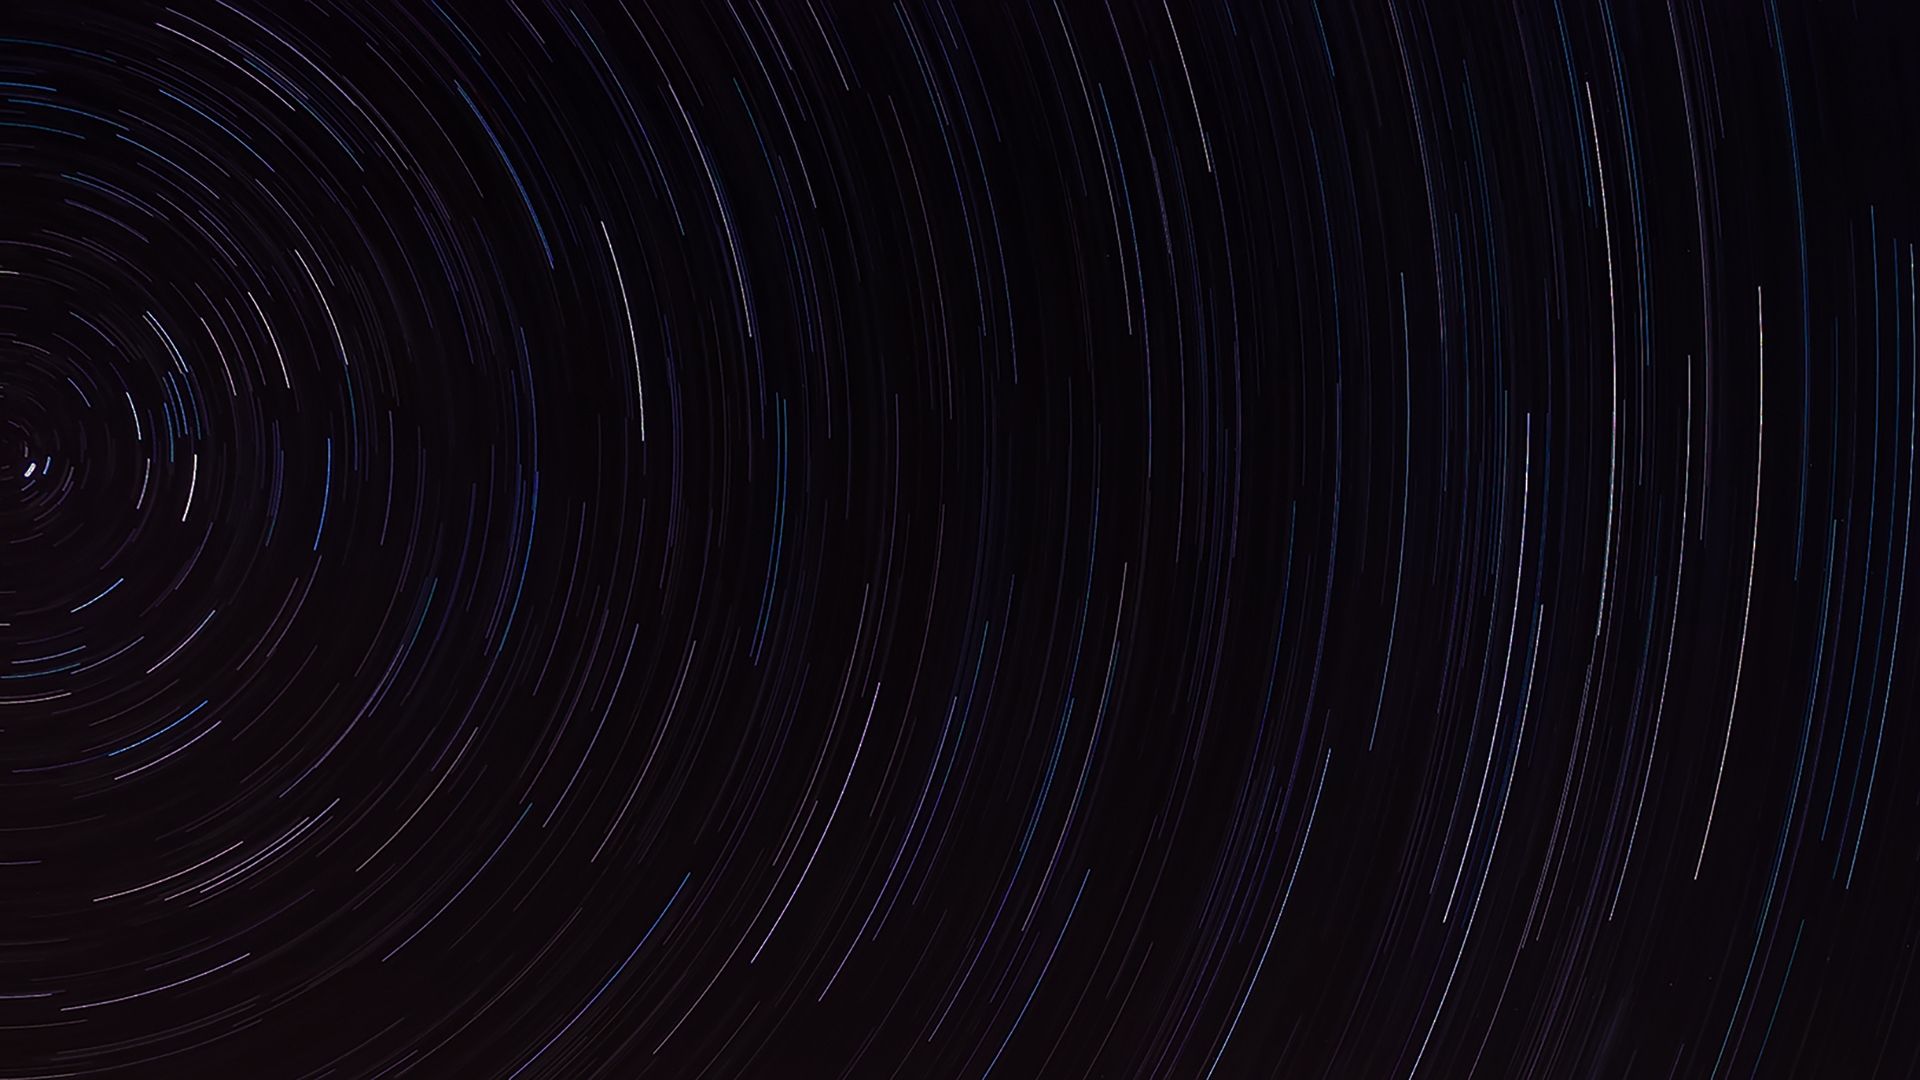
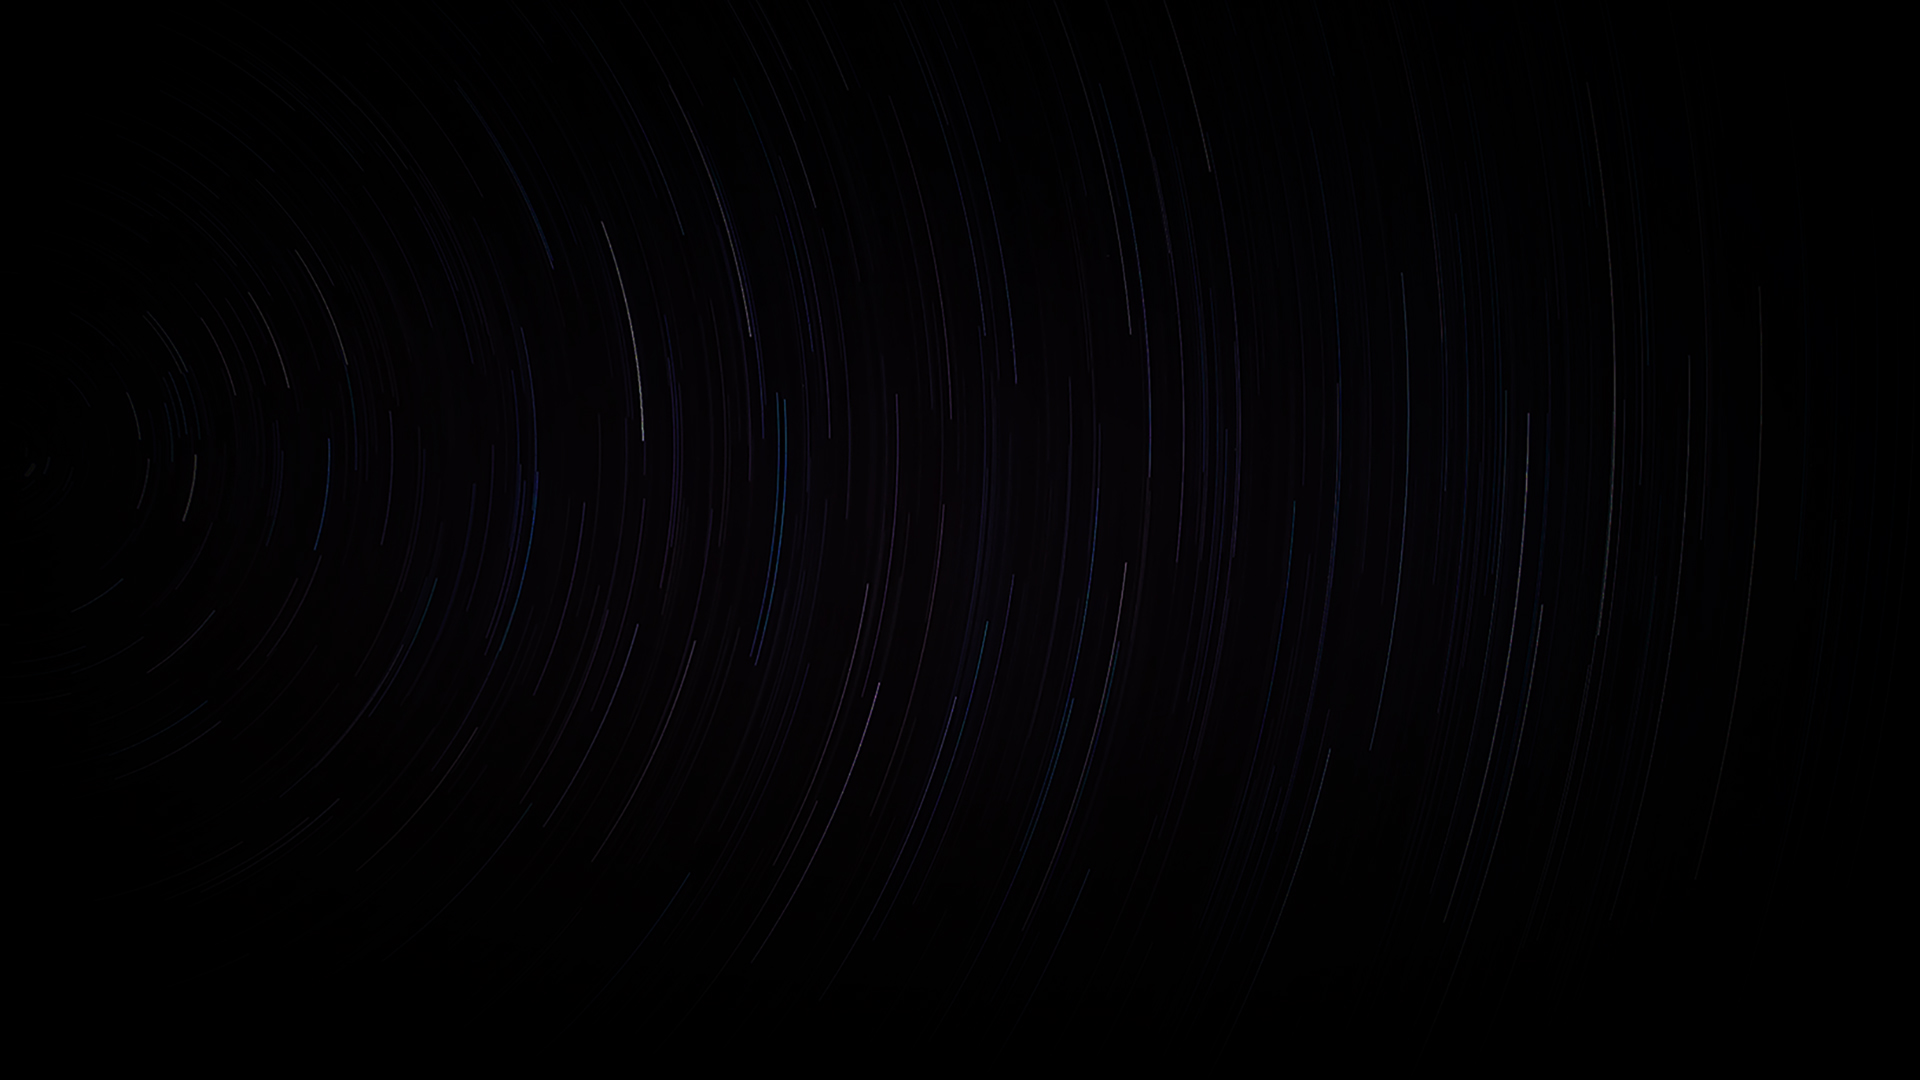
1

diff --git a/indexstyle.css b/indexstyle.css
@@ -4,10 +4,11 @@ body {
   padding: 0;}
 
   #navcontainer {
+    background: rgba(0,0,0,0.9);
     background-image: url("homepage.jpg");
     background-size: 100%;
     background-repeat: no-repeat;
-    height: 100%;
+    height: 800px;
     width: 100%;
     position: absolute;
   }
@@ -18,7 +19,7 @@ body {
       padding: 0;
       margin: 0;
       top: 30px;
-      right: 15%;
+      right: 5%;
   }
 
   li {
@@ -37,3 +38,27 @@ body {
   }
 
   li a:hover {background: rgba(200, 0, 0, 0.5); border-radius: 2px;}
+
+/*-----------------------------------------------------------------------------------------------------*/
+
+p {
+  position: absolute;
+  text-align: center;
+  top: 300px;
+  left: 50%;
+  transform: translate(-50%,-50%);
+  font-family: 'Roboto', sans-serif;
+  font-weight: normal;
+  font-size: 40px;
+  color: white;
+}
+
+#section1 {
+  top: 800px;
+  position: absolute;
+  margin:0;
+  padding:0;
+  height: 600px;
+  width: 100%;
+  background-color: #181823;
+}

diff --git a/index.html b/index.html
@@ -3,7 +3,7 @@
   <head>
     <meta charset="utf-8">
     <title>Link Test</title>
-    <link href="https://fonts.googleapis.com/css?family=Roboto:900" rel="stylesheet"> 
+    <link href="https://fonts.googleapis.com/css?family=Roboto:900" rel="stylesheet">
     <link rel="stylesheet" href="indexstyle.css">
 	  <script src="jquery.min.js"></script>
     <script src="scriptindex.js"></script>
@@ -13,7 +13,7 @@
 
 	<body>
 
-    <div id="navcontainer">
+  <div id="navcontainer">
     <ul id="navbar">
       <li><a href="">Contacts</a></li>
       <li><a href="">About Me</a></li>
@@ -21,5 +21,9 @@
       <li><a href="">Home</a></li>
     </ul>
   </div>
+
+  <div id="titlecontainer"><p>Hi, I'm<br>Federico Lucifora</p></div>
+
+  <div id="section1"></div>
 
   </body>
